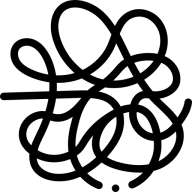
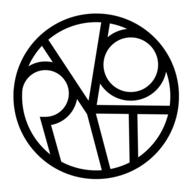
Rebrand (#772)
* feat(frontend): rebrand all logos

* chore: remove acknowledgements for old logo

* docs: add logo to readme

* build(backend): bump version

* chore(frontend): change color of app

diff --git a/README.md b/README.md
@@ -1,5 +1,7 @@
 <h1 align="center">Ryot</h1>
 
+<img align="left" src="docs/logo.png" width="150">
+
 <h3 align="center">
   A self hosted platform for tracking various facets of your life - media, fitness etc.
 </h3>
@@ -76,6 +78,3 @@ special tool on your computer or phone that lets you keep track of all these dig
 Ryot is highly inspired by [MediaTracker](https://github.com/bonukai/MediaTracker) and other
 similar projects. Also a massive thanks to all the
 [contributors](https://github.com/IgnisDa/ryot/graphs/contributors).
-
-The logo is taken from
-[Flaticon](https://www.flaticon.com/free-icon/mess_4789882?term=chaos&page=1&position=2&origin=tag&related_id=4789882).
